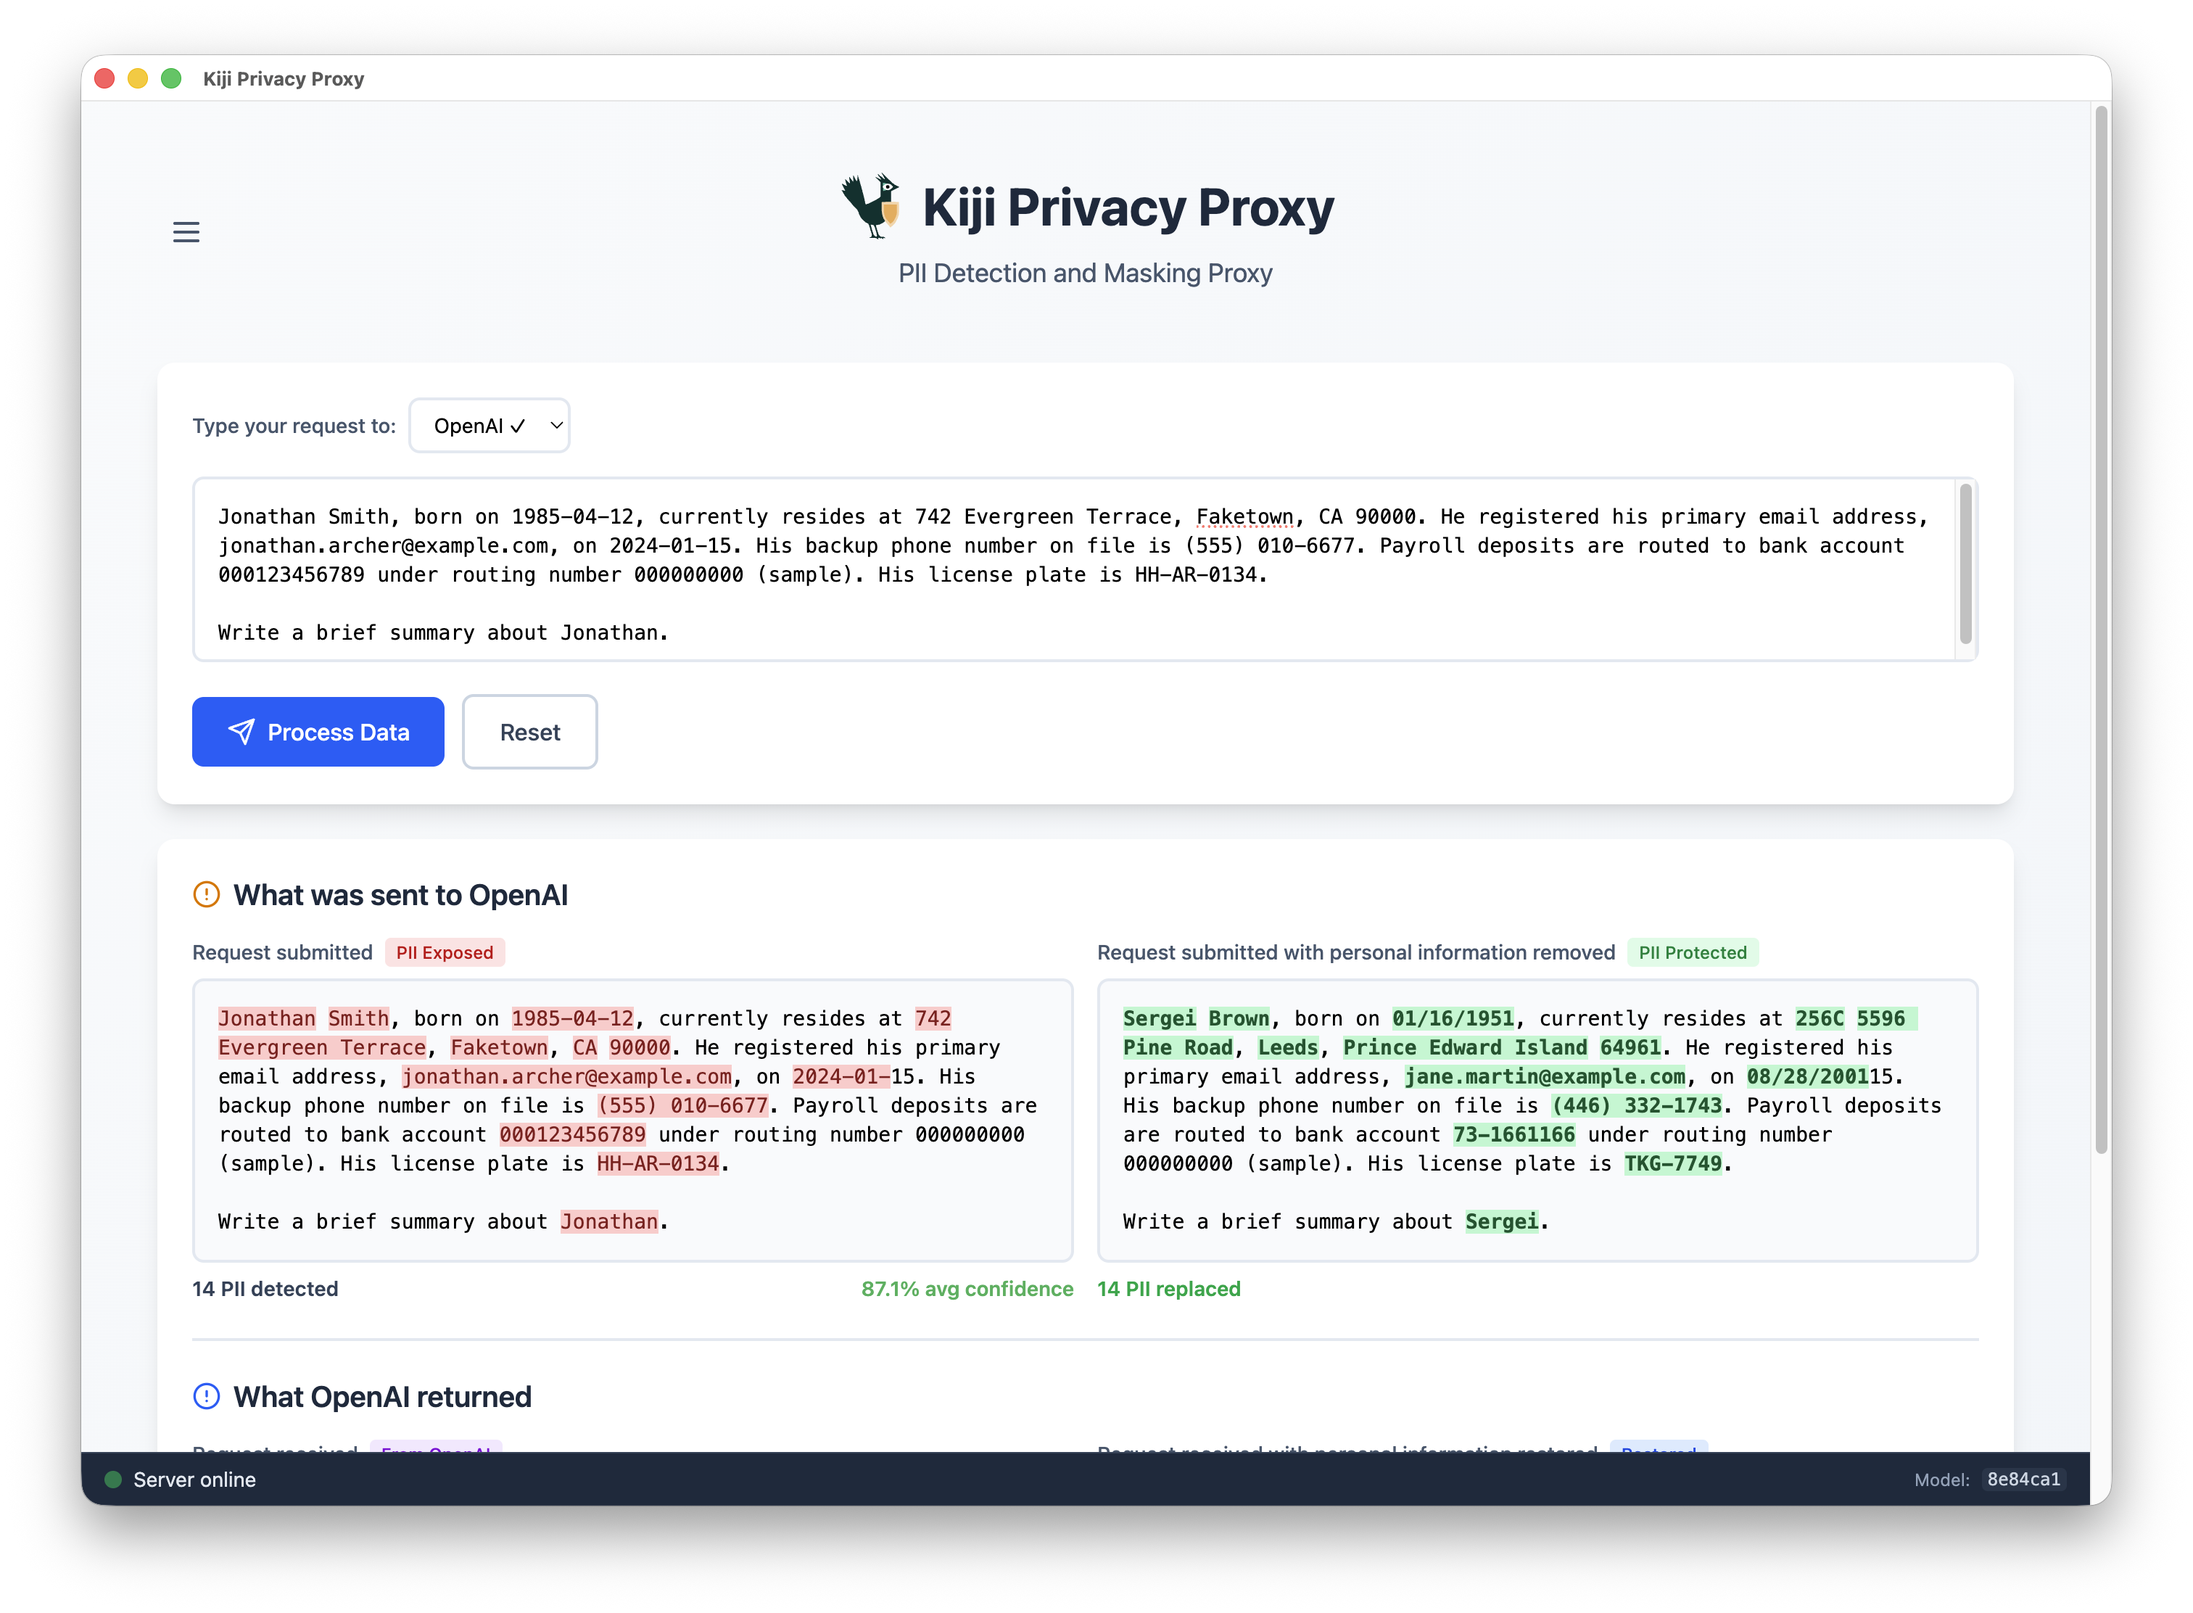
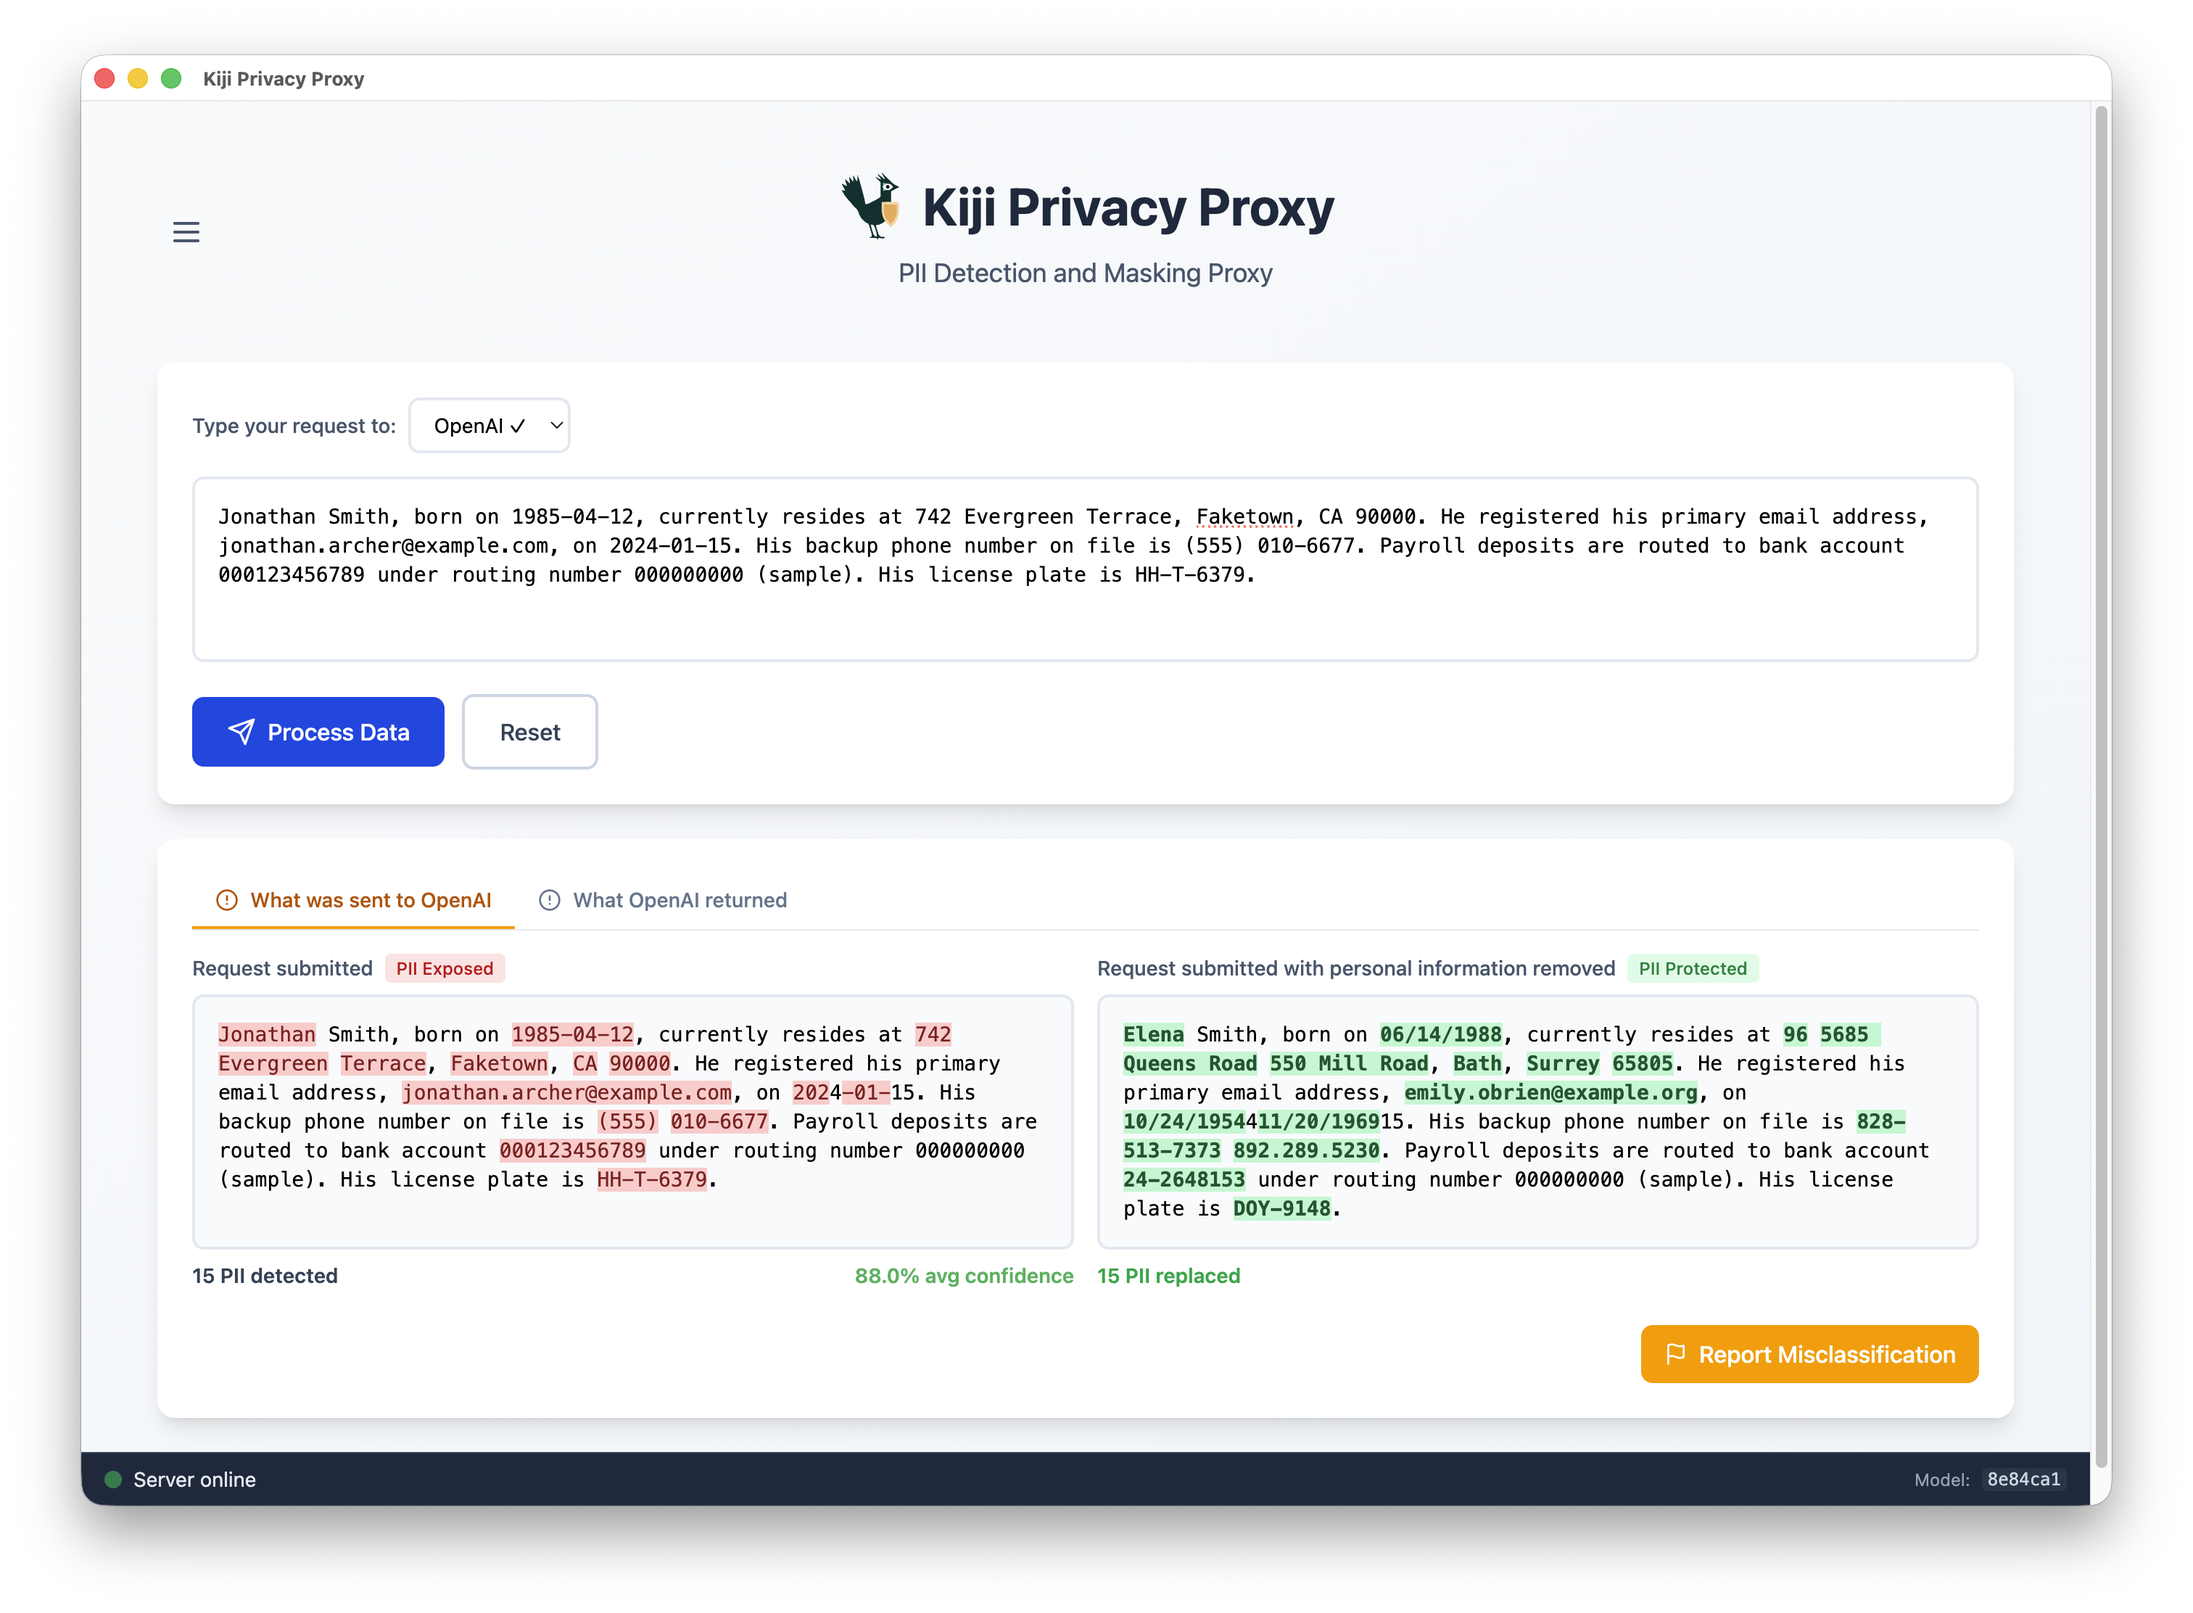
Create UI tabs for request/response (#210)
* move to response in ui to tabs

* updated screenshot

* add setup-onnx command to installation instructions to developers

---------

diff --git a/src/frontend/src/components/privacy-proxy-ui.tsx b/src/frontend/src/components/privacy-proxy-ui.tsx
@@ -40,6 +40,9 @@ export default function PrivacyProxyUI() {
   const [isMenuOpen, setIsMenuOpen] = useState(false);
   const [isScrolled, setIsScrolled] = useState(false);
   const [showModelTooltip, setShowModelTooltip] = useState(false);
+  const [activeResultTab, setActiveResultTab] = useState<
+    "request" | "response"
+  >("request");
   const menuRef = useRef<HTMLDivElement>(null);
 
   // Settings & provider state
@@ -367,118 +370,135 @@ export default function PrivacyProxyUI() {
           <div className="space-y-6">
             {/* Combined Input and Output Diff */}
             <div className="bg-white rounded-xl shadow-lg p-6">
-              {/* Input Diff */}
-              <h2 className="text-xl font-semibold text-slate-800 mb-4 flex items-center gap-2">
-                <AlertCircle className="w-5 h-5 text-amber-600" />
-                {isElectron
-                  ? `What was sent to ${
-                      PROVIDER_NAMES[settings.activeProvider]
-                    }`
-                  : "What was sent to the LLM: "}
-              </h2>
-              <div className="grid md:grid-cols-2 gap-4">
-                <div className="flex flex-col">
-                  <div className="text-sm font-medium text-slate-600 mb-2 flex items-center gap-2">
-                    <span>Request submitted</span>
-                    <span className="px-2 py-0.5 bg-red-100 text-red-700 text-xs rounded">
-                      PII Exposed
-                    </span>
-                  </div>
-                  <div
-                    className="bg-slate-50 rounded-lg p-4 font-mono text-sm border-2 border-slate-200 whitespace-pre-wrap flex-1"
-                    dangerouslySetInnerHTML={{
-                      __html: highlightedInputOriginalHTML,
-                    }}
-                  />
-                  <div className="flex justify-between items-center mt-2">
-                    <p className="text-sm font-semibold text-slate-700">
-                      {detectedEntities.length} PII detected
-                    </p>
-                    <p
-                      className="text-sm font-semibold"
-                      style={{
-                        color: getConfidenceColor(averageConfidence),
+              {/* Tabs */}
+              <div className="flex border-b border-slate-200 mb-4">
+                <button
+                  onClick={() => setActiveResultTab("request")}
+                  className={`flex items-center gap-2 px-4 py-2 text-sm font-medium border-b-2 transition-colors ${
+                    activeResultTab === "request"
+                      ? "border-amber-500 text-amber-700"
+                      : "border-transparent text-slate-500 hover:text-slate-700 hover:border-slate-300"
+                  }`}
+                >
+                  <AlertCircle className="w-4 h-4" />
+                  {isElectron
+                    ? `What was sent to ${
+                        PROVIDER_NAMES[settings.activeProvider]
+                      }`
+                    : "What was sent to the LLM"}
+                </button>
+                <button
+                  onClick={() => setActiveResultTab("response")}
+                  className={`flex items-center gap-2 px-4 py-2 text-sm font-medium border-b-2 transition-colors ${
+                    activeResultTab === "response"
+                      ? "border-blue-500 text-blue-700"
+                      : "border-transparent text-slate-500 hover:text-slate-700 hover:border-slate-300"
+                  }`}
+                >
+                  <AlertCircle className="w-4 h-4" />
+                  {isElectron
+                    ? `What ${PROVIDER_NAMES[settings.activeProvider]} returned`
+                    : "What the LLM returned"}
+                </button>
+              </div>
+
+              {/* Request Tab */}
+              {activeResultTab === "request" && (
+                <div className="grid md:grid-cols-2 gap-4">
+                  <div className="flex flex-col">
+                    <div className="text-sm font-medium text-slate-600 mb-2 flex items-center gap-2">
+                      <span>Request submitted</span>
+                      <span className="px-2 py-0.5 bg-red-100 text-red-700 text-xs rounded">
+                        PII Exposed
+                      </span>
+                    </div>
+                    <div
+                      className="bg-slate-50 rounded-lg p-4 font-mono text-sm border-2 border-slate-200 whitespace-pre-wrap flex-1"
+                      dangerouslySetInnerHTML={{
+                        __html: highlightedInputOriginalHTML,
                       }}
-                    >
-                      {(averageConfidence * 100).toFixed(1)}% avg confidence
-                    </p>
+                    />
+                    <div className="flex justify-between items-center mt-2">
+                      <p className="text-sm font-semibold text-slate-700">
+                        {detectedEntities.length} PII detected
+                      </p>
+                      <p
+                        className="text-sm font-semibold"
+                        style={{
+                          color: getConfidenceColor(averageConfidence),
+                        }}
+                      >
+                        {(averageConfidence * 100).toFixed(1)}% avg confidence
+                      </p>
+                    </div>
+                  </div>
+                  <div className="flex flex-col">
+                    <div className="text-sm font-medium text-slate-600 mb-2 flex items-center gap-2">
+                      <span>
+                        Request submitted with personal information removed
+                      </span>
+                      <span className="px-2 py-0.5 bg-green-100 text-green-700 text-xs rounded">
+                        PII Protected
+                      </span>
+                    </div>
+                    <div
+                      className="bg-slate-50 rounded-lg p-4 font-mono text-sm border-2 border-slate-200 whitespace-pre-wrap flex-1"
+                      dangerouslySetInnerHTML={{
+                        __html: highlightedInputMaskedHTML,
+                      }}
+                    />
+                    <div className="mt-2">
+                      <p className="text-sm font-semibold text-green-600">
+                        {responseDetectedEntities.length} fake PIIs received
+                      </p>
+                    </div>
                   </div>
                 </div>
-                <div className="flex flex-col">
-                  <div className="text-sm font-medium text-slate-600 mb-2 flex items-center gap-2">
-                    <span>
-                      Request submitted with personal information removed
-                    </span>
-                    <span className="px-2 py-0.5 bg-green-100 text-green-700 text-xs rounded">
-                      PII Protected
-                    </span>
-                  </div>
-                  <div
-                    className="bg-slate-50 rounded-lg p-4 font-mono text-sm border-2 border-slate-200 whitespace-pre-wrap flex-1"
-                    dangerouslySetInnerHTML={{
-                      __html: highlightedInputMaskedHTML,
-                    }}
-                  />
-                  <div className="mt-2">
-                    <p className="text-sm font-semibold text-green-600">
-                      {detectedEntities.length} PII replaced
-                    </p>
-                  </div>
-                </div>
-              </div>
+              )}
 
-              {/* Divider */}
-              <div className="my-6 border-t-2 border-slate-200"></div>
-
-              {/* Output Diff */}
-              <h2 className="text-xl font-semibold text-slate-800 mb-4 flex items-center gap-2">
-                <AlertCircle className="w-5 h-5 text-blue-600" />
-                {isElectron
-                  ? `What ${PROVIDER_NAMES[settings.activeProvider]} returned`
-                  : "What the LLM returned"}
-              </h2>
-              <div className="grid md:grid-cols-2 gap-4">
-                <div className="flex flex-col">
-                  <div className="text-sm font-medium text-slate-600 mb-2 flex items-center gap-2">
-                    <span>Request received</span>
-                    <span className="px-2 py-0.5 bg-purple-100 text-purple-700 text-xs rounded">
-                      From {PROVIDER_NAMES[settings.activeProvider]}
-                    </span>
+              {/* Response Tab */}
+              {activeResultTab === "response" && (
+                <div className="grid md:grid-cols-2 gap-4">
+                  <div className="flex flex-col">
+                    <div className="text-sm font-medium text-slate-600 mb-2 flex items-center gap-2">
+                      <span>Response received</span>
+                      <span className="px-2 py-0.5 bg-purple-100 text-purple-700 text-xs rounded">
+                        From {PROVIDER_NAMES[settings.activeProvider]}
+                      </span>
+                    </div>
+                    <div
+                      className="bg-slate-50 rounded-lg p-4 font-mono text-sm border-2 border-slate-200 whitespace-pre-wrap flex-1"
+                      dangerouslySetInnerHTML={{
+                        __html: highlightedOutputMaskedHTML,
+                      }}
+                    />
+                    <div className="mt-2">
+                      <p className="text-sm font-semibold text-slate-700">
+                        {detectedEntities.length} fake PIIs received
+                      </p>
+                    </div>
                   </div>
-                  <div
-                    className="bg-slate-50 rounded-lg p-4 font-mono text-sm border-2 border-slate-200 whitespace-pre-wrap flex-1"
-                    dangerouslySetInnerHTML={{
-                      __html: highlightedOutputMaskedHTML,
-                    }}
-                  />
-                  <div className="mt-2">
-                    <p className="text-sm font-semibold text-slate-700">
-                      {responseDetectedEntities.length} fake PIIs received
-                    </p>
-                  </div>
-                </div>
-                <div className="flex flex-col">
-                  <div className="text-sm font-medium text-slate-600 mb-2 flex items-center gap-2">
-                    <span>
-                      Request received with personal information restored
-                    </span>
-                    <span className="px-2 py-0.5 bg-blue-100 text-blue-700 text-xs rounded">
-                      Restored
-                    </span>
-                  </div>
-                  <div
-                    className="bg-slate-50 rounded-lg p-4 font-mono text-sm border-2 border-slate-200 whitespace-pre-wrap flex-1"
-                    dangerouslySetInnerHTML={{
-                      __html: highlightedOutputFinalHTML,
-                    }}
-                  />
-                  <div className="mt-2">
-                    <p className="text-sm font-semibold text-green-600">
-                      {responseDetectedEntities.length} PII restored
-                    </p>
+                  <div className="flex flex-col">
+                    <div className="text-sm font-medium text-slate-600 mb-2 flex items-center gap-2">
+                      <span>Response with personal information restored</span>
+                      <span className="px-2 py-0.5 bg-blue-100 text-blue-700 text-xs rounded">
+                        Restored
+                      </span>
+                    </div>
+                    <div
+                      className="bg-slate-50 rounded-lg p-4 font-mono text-sm border-2 border-slate-200 whitespace-pre-wrap flex-1"
+                      dangerouslySetInnerHTML={{
+                        __html: highlightedOutputFinalHTML,
+                      }}
+                    />
+                    <div className="mt-2">
+                      <p className="text-sm font-semibold text-green-600">
+                        {responseDetectedEntities.length} PII restored
+                      </p>
+                    </div>
                   </div>
                 </div>
-              </div>
+              )}
 
               {/* Report Misclassification Button */}
               <div className="mt-6 flex justify-end">

diff --git a/README.md b/README.md
@@ -136,6 +136,7 @@ cd kiji-proxy
 
 # Install dependencies
 make electron-install
+make setup-onnx
 
 # Run with debugger (VSCode)
 # Press F5
